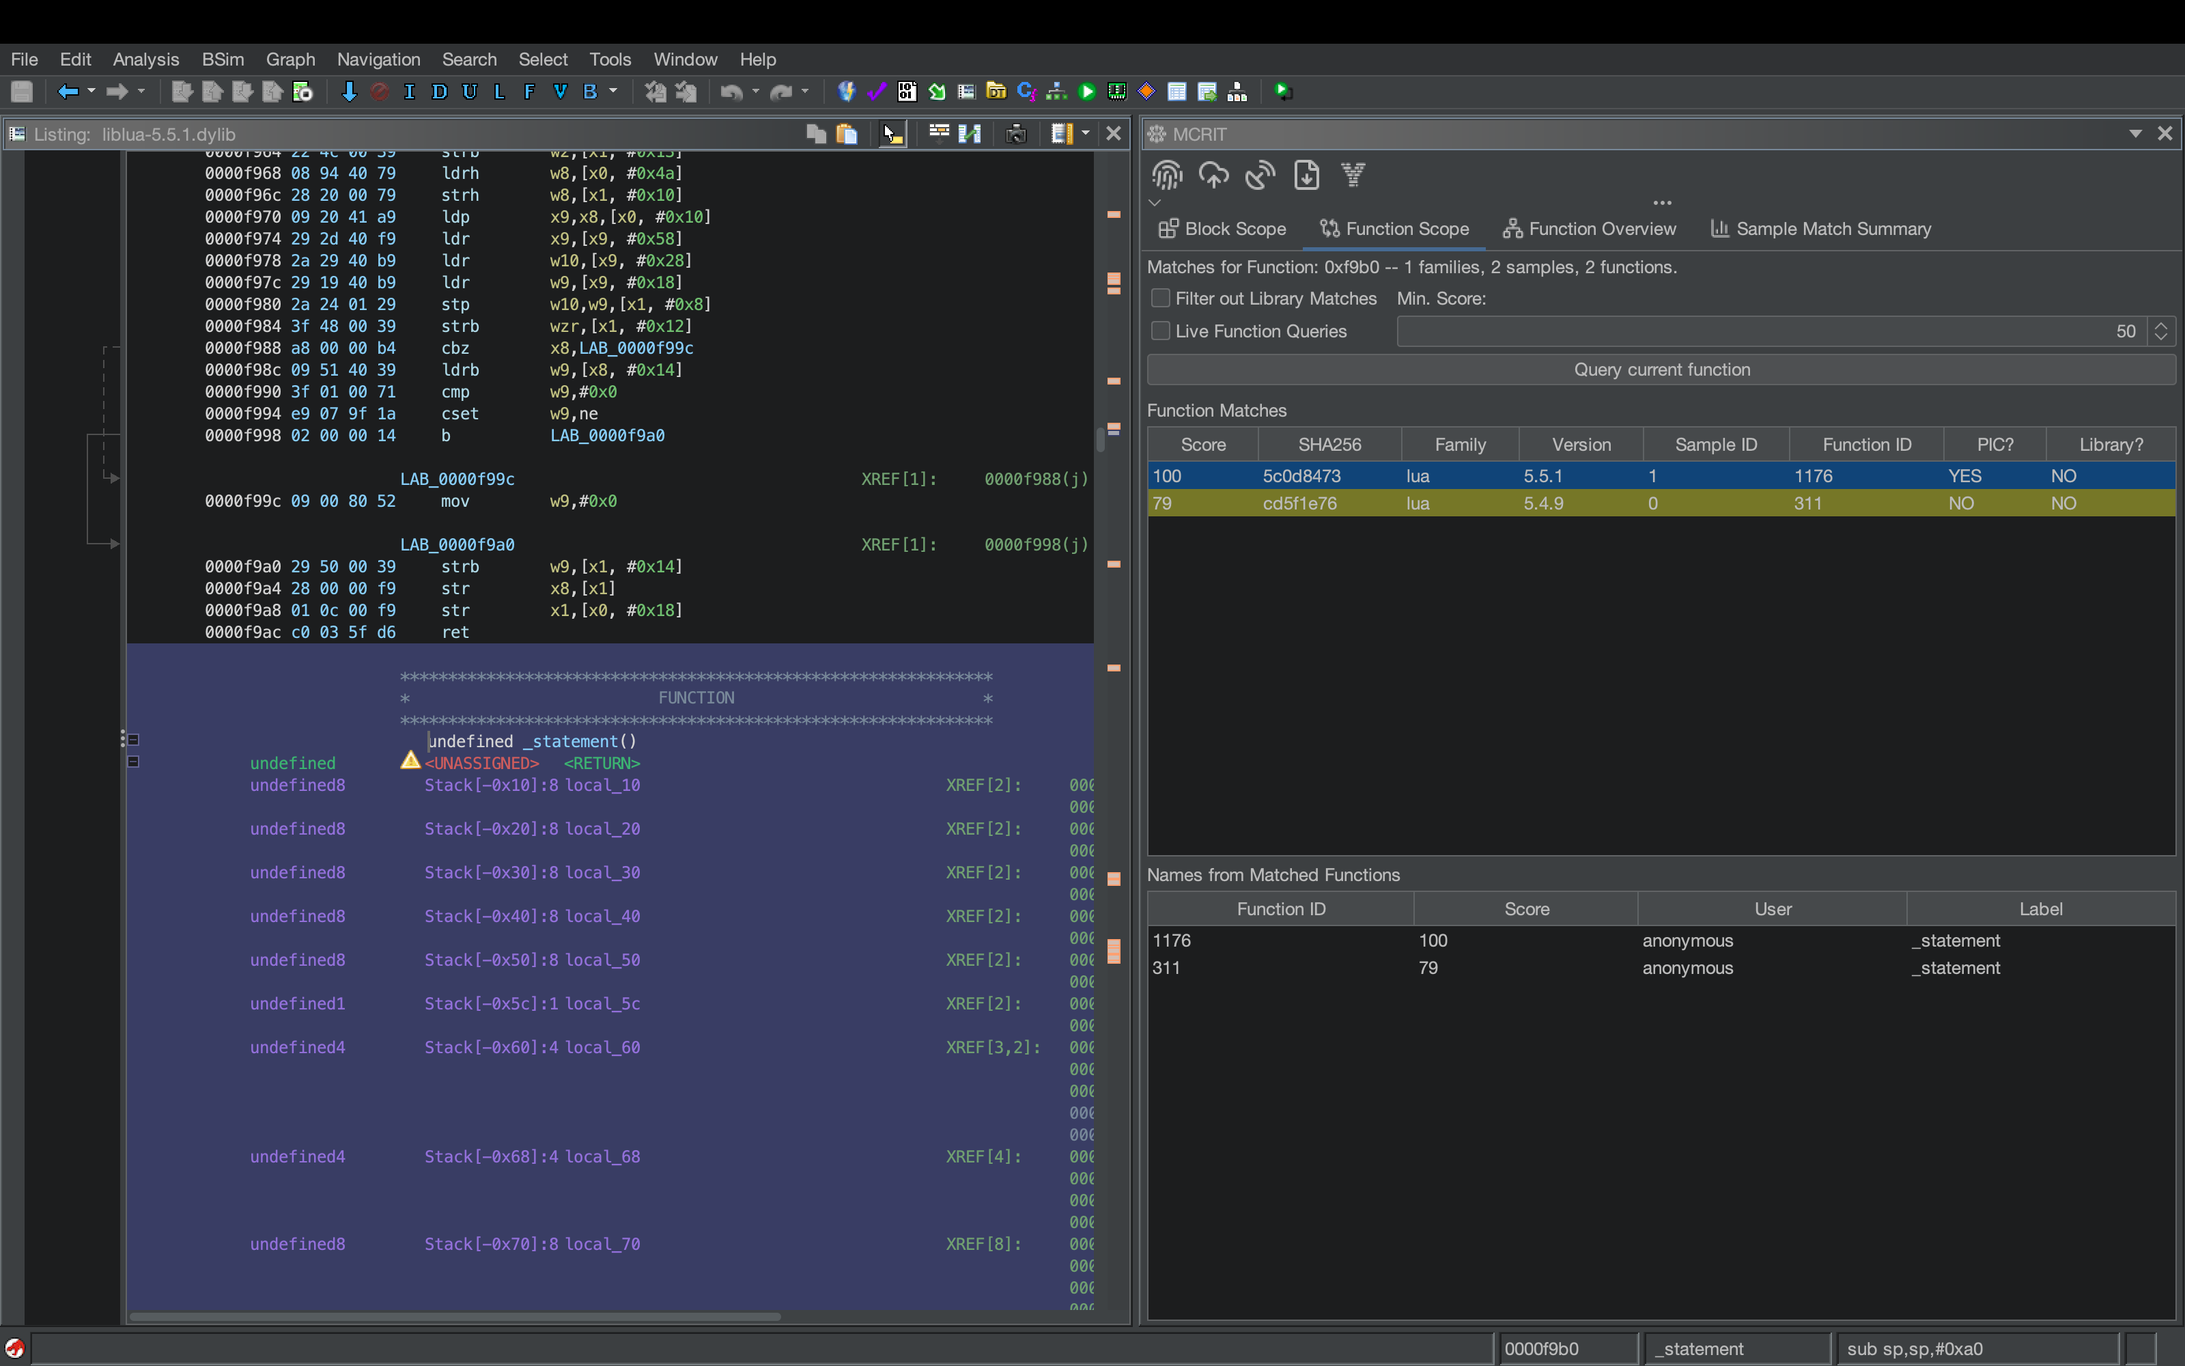
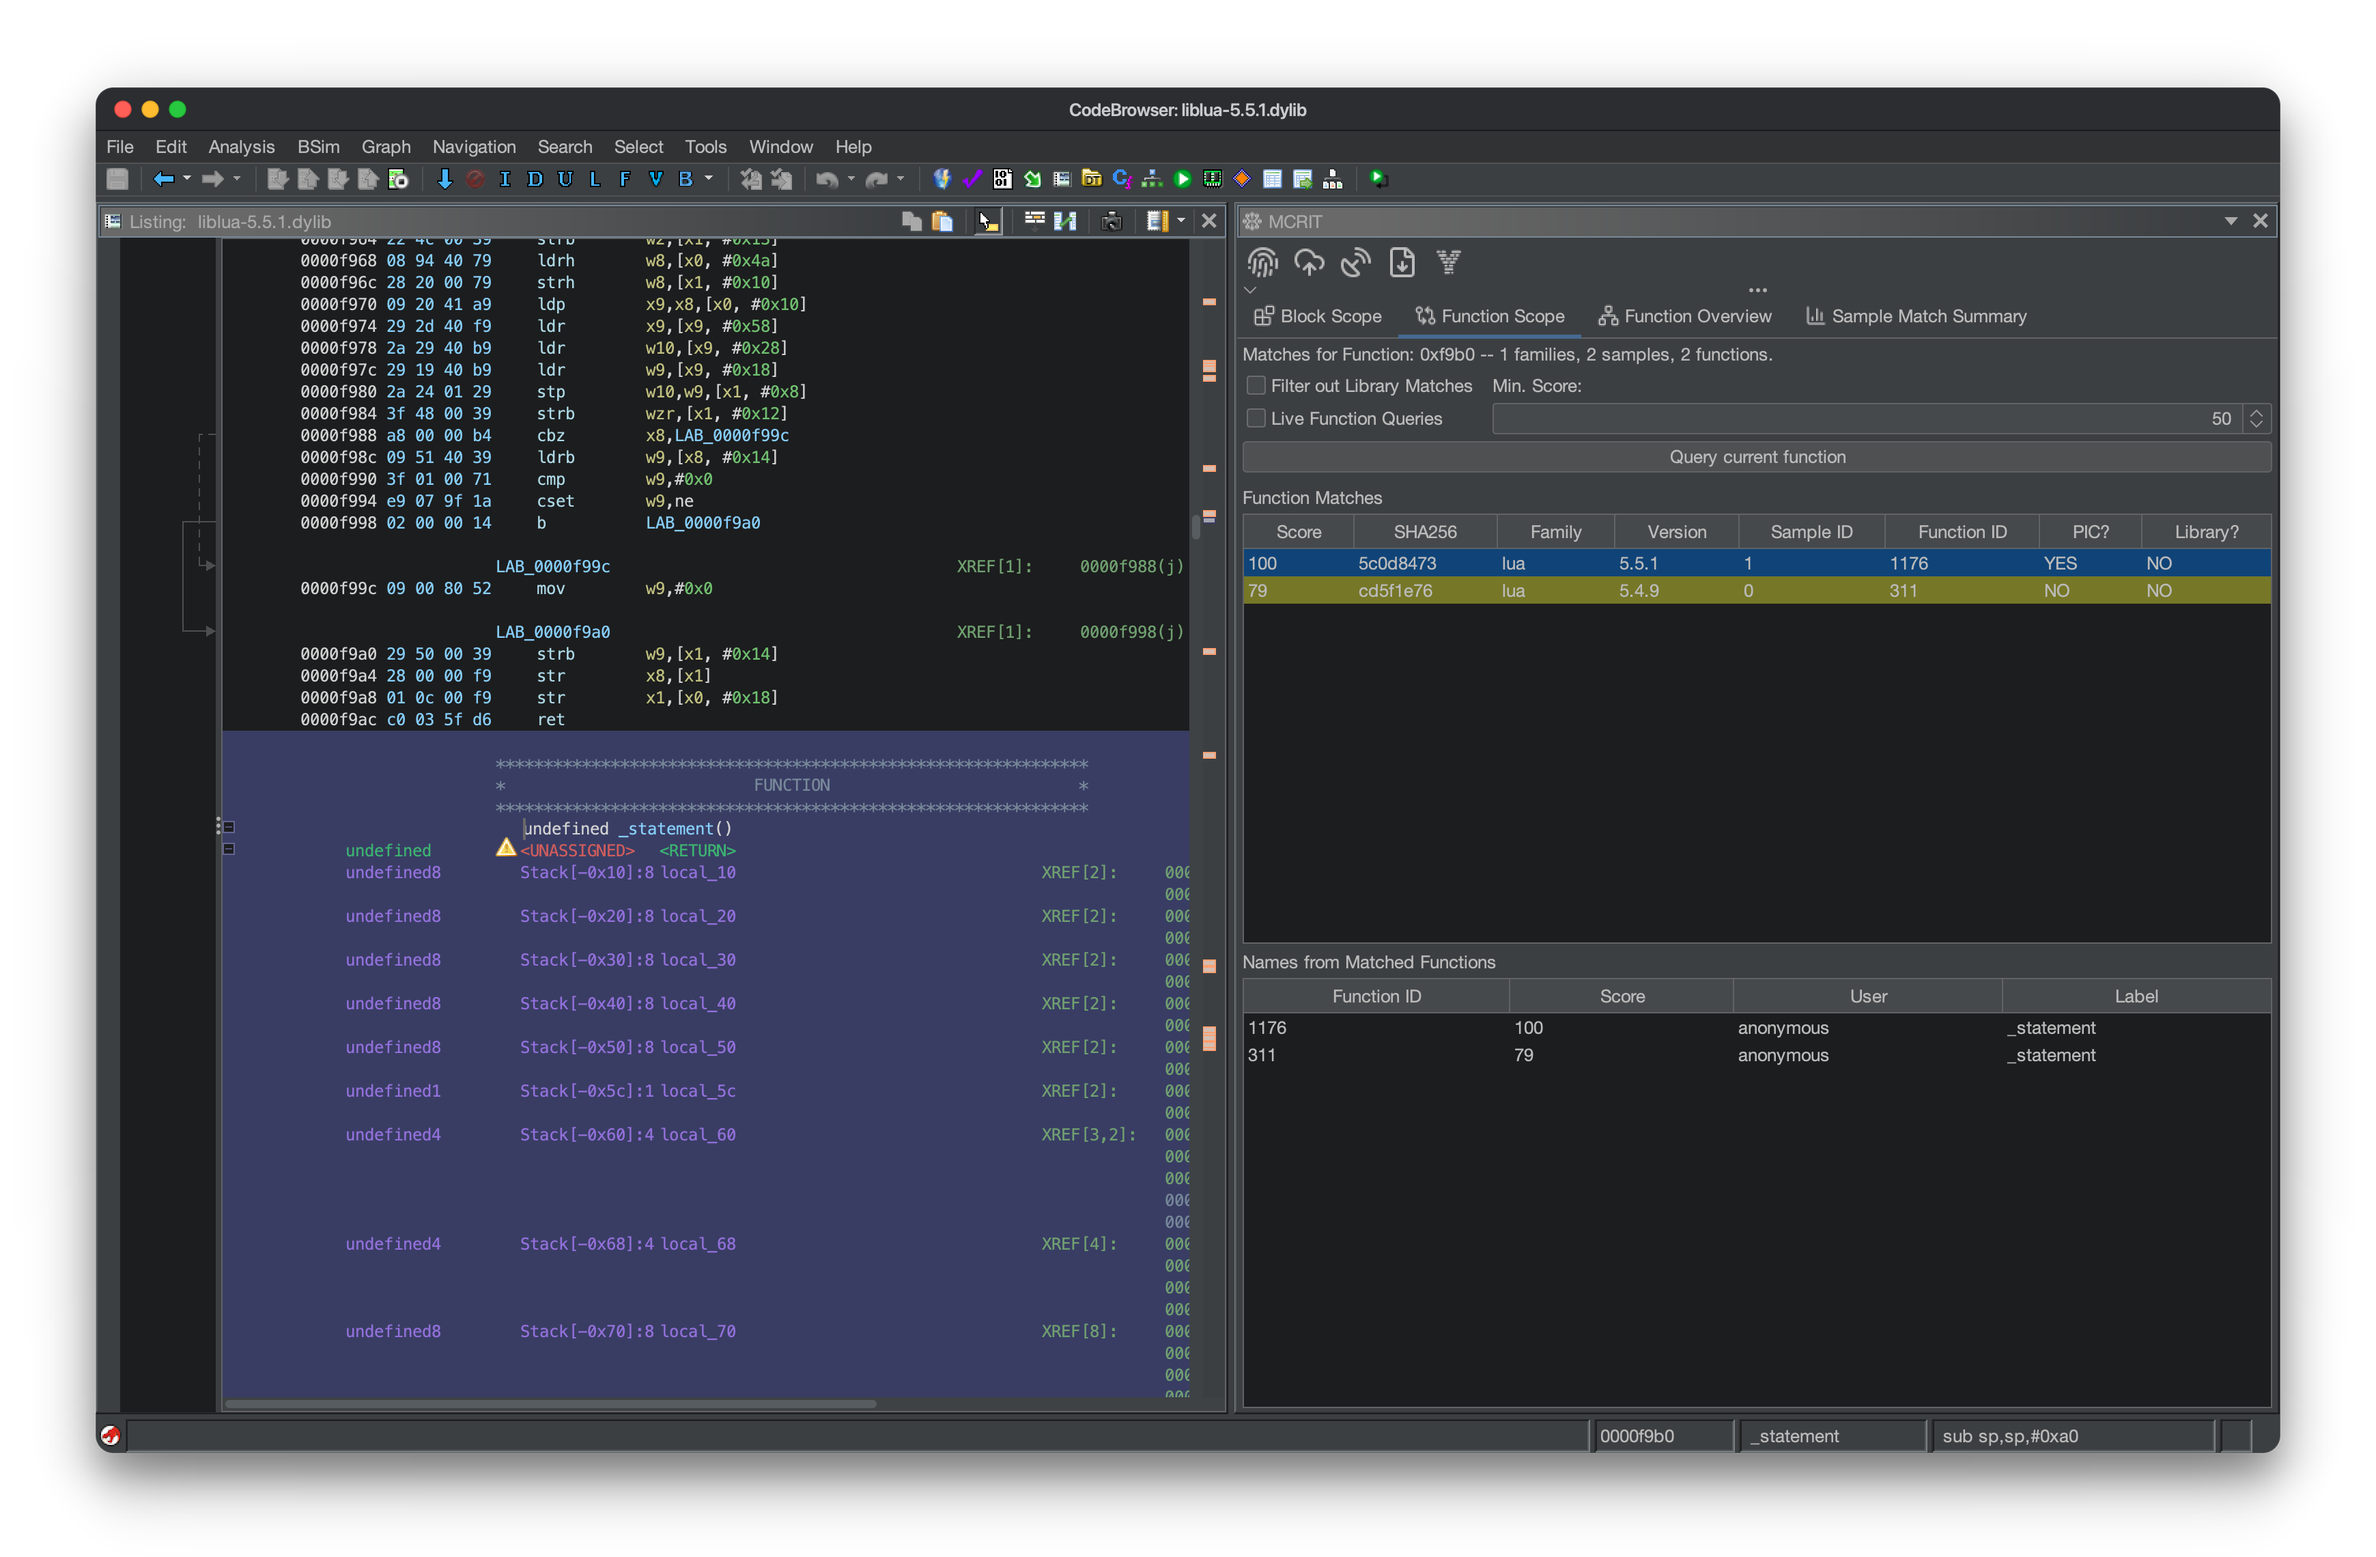
Frame the README screenshots as macOS windows
Each screenshot now sits in a window frame with a title bar, rounded
corners and a soft shadow on a transparent background. The animation
moves from GIF to animated PNG, since GIF transparency can't hold the
shadow.

diff --git a/README.md b/README.md
@@ -10,7 +10,7 @@ See which code in your binary you have seen before. These plugins connect your d
 [MCRIT](https://github.com/familiary/mcrit) server, the MinHash-based code similarity toolkit, and
 show matching functions, blocks, samples and names right next to your analysis.
 
-![The Function Scope following the cursor in IDA Pro](docs/images/ida-live-function-scope.gif)
+![The Function Scope following the cursor in IDA Pro](docs/images/ida-live-function-scope.png)
 
 - **Function and block matches** for wherever your cursor is, as you move.
 - **Function overview** of the whole sample, with names from the matches you can import.
